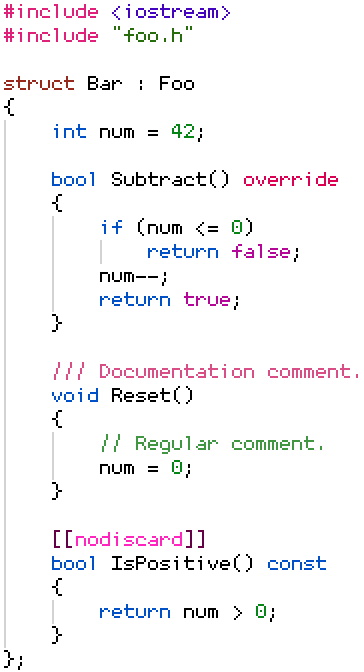
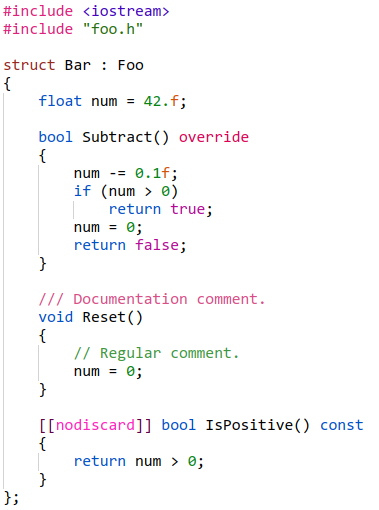
Update demo image.

diff --git a/README.md b/README.md
@@ -1,7 +1,6 @@
 A VSCode extension providing a custom C++ grammar, and a light color theme tailored to this grammar (based on the built-in `Light+`).
 
 ![](notes/demo.png)<br>
-<sup>(font: [Monocat 6x12](https://github.com/HolyBlackCat/monocat-fonts))</sup>
 
 **Goals for the grammar:**
 
